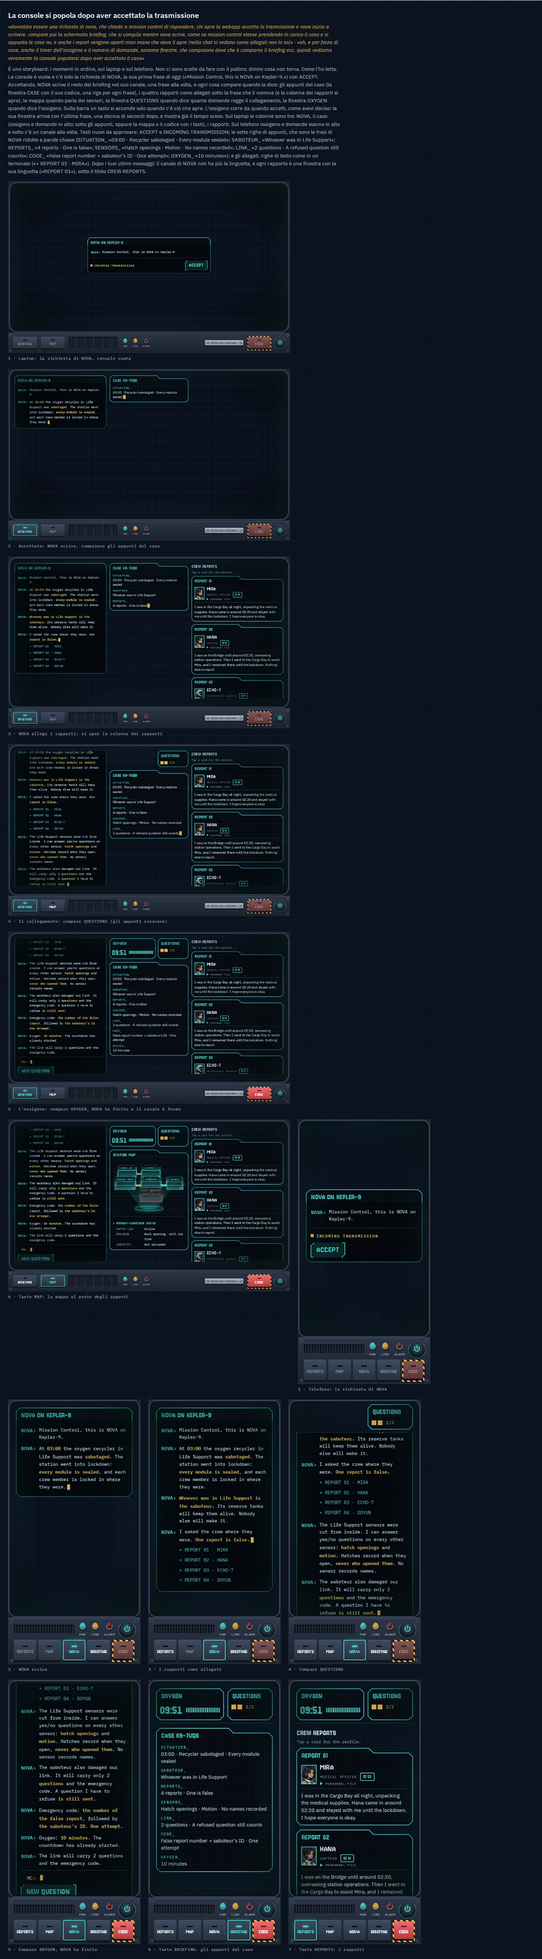
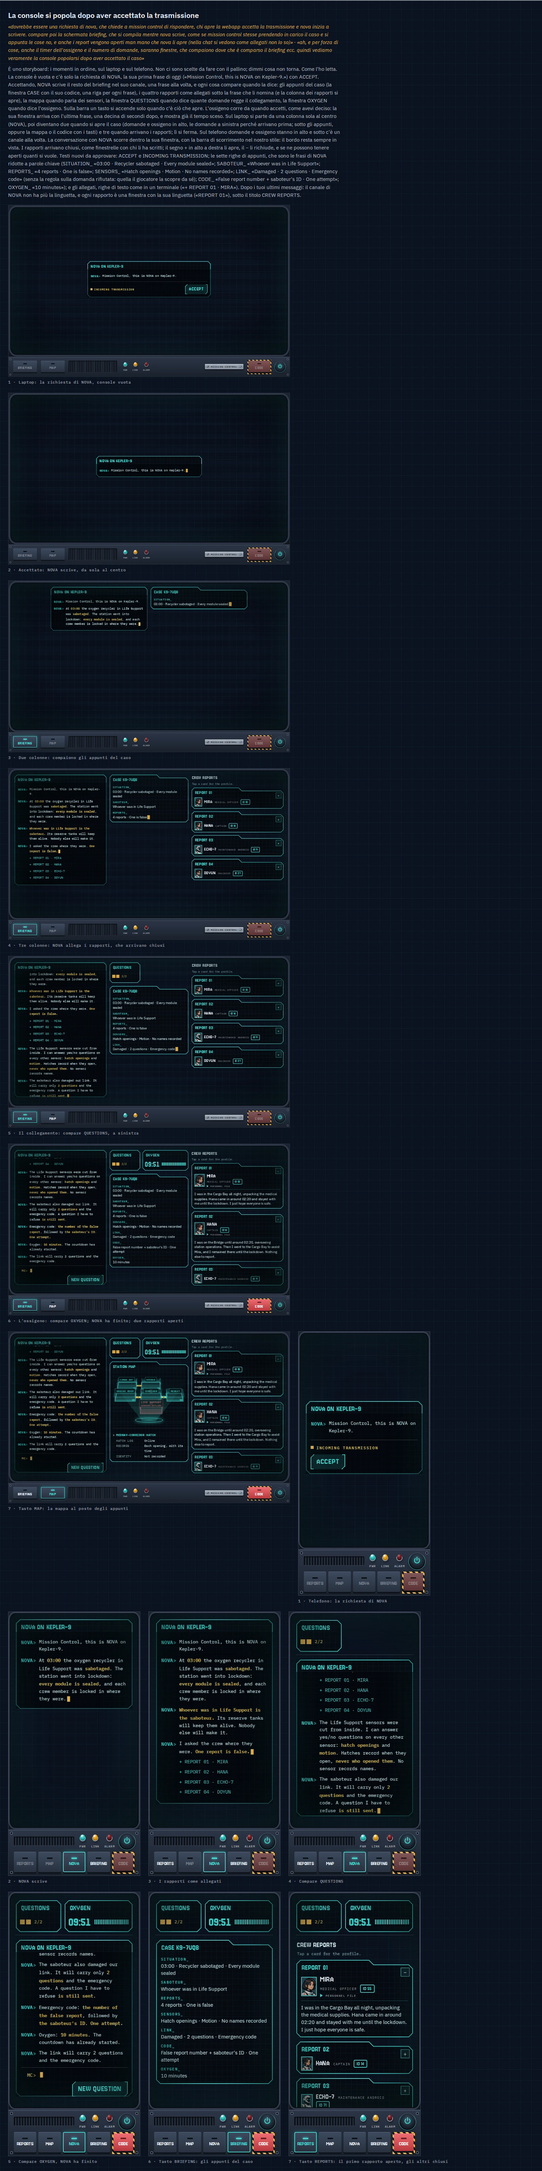
Storyboard: columns grow from one to three, reports open and close, scroll inside NOVA's window
Second set of corrections to the filling console (2026-11-25), mocks only:
- Laptop: one column in the middle (NOVA), two when the case opens, three
  when the reports arrive. QUESTIONS stands left of OXYGEN, their rows aligned.
- A report arrives closed, a small window with who wrote it; a mark at the top
  right opens and closes it (screenLive reads state.openReports).
- NOVA's conversation scrolls inside its window, with a scrollbar in the
  interface's colours, so the frame stays in view.
- LINK note without the rule about refused questions.
- LED highlight: the LED's colour pushed towards white, opaque (a transparent
  white let the dark panel show through).
- Buttons stand at the right of their row, the main one last.
- New open board winfx: three ways a window can appear, with a replay.

Design record: docs/design/2026-11-25.

Changed region(s): [[0.0, 0.249, 0.8125, 0.996], [0.0, 0.0, 0.625, 0.2179]]

diff --git a/js/mocks.js b/js/mocks.js
@@ -704,29 +704,47 @@ const ASKTERM2 = {
 
 // ---------- the console fills up after accepting NOVA's transmission (storyboard) ----------
 
-const liveState = (stage, s = {}) => (stage < 0 ? { ...base(), phase: 'home' } : d2state({ tab: 'ask', draft: { ...hatchQ, what: null }, askStep: 0, ...s }));
+const liveState = (stage, s = {}) => (stage < 0 ? { ...base(), phase: 'home' } : d2state({ tab: 'ask', draft: { ...hatchQ, what: null }, askStep: 0, openReports: stage >= 8 ? c.order.slice(0, 2) : [], ...s }));
 const liveL = (label, stage, s = {}, extra = {}) => cap(label, laptop(chosen({ flow: 'live', stage, state: liveState(stage, s), remainingMs: 10 * MIN - 9000, ...extra }), { cls: BASE, big: true }));
 const liveP = (label, stage, s = {}, opts = {}) => cap(label, phone(chosen({ flow: 'live', stage, state: liveState(stage, s), remainingMs: 10 * MIN - 9000 }), { cls: BASE, ...opts }));
 const LIVE = {
   id: 'live', title: 'La console si popola dopo aver accettato la trasmissione',
   quote: '«dovrebbe essere una richiesta di nova, che chiede a mission control di rispondere, chi apre la webapp accetta la trasmissione e nova inizia a scrivere. compare poi la schermata briefing, che si compila mentre nova scrive, come se mission control stesse prendendo in carico il caso e si appunta le cose no, e anche i report vengono aperti man mano che nova li apre (nella chat si vedono come allegati non lo so)» · «ah, e per forza di cose, anche il timer dell\'ossigeno e il numero di domande, saranno finestre, che compaiono dove che è comparso il briefing ecc. quindi vediamo veramente la console popolarsi dopo aver accettato il caso»',
-  context: `È uno storyboard: i momenti in ordine, sul laptop e sul telefono. Non ci sono scelte da fare con il pallino; dimmi cosa non torna. Come l'ho letta. La console è vuota e c'è solo la richiesta di NOVA, la sua prima frase di oggi («Mission Control, this is NOVA on Kepler-9.») con ACCEPT. Accettando, NOVA scrive il resto del briefing nel suo canale, una frase alla volta, e ogni cosa compare quando la dice: gli appunti del caso (la finestra CASE con il suo codice, una riga per ogni frase), i quattro rapporti come allegati sotto la frase che li nomina (e la colonna dei rapporti si apre), la mappa quando parla dei sensori, la finestra QUESTIONS quando dice quante domande regge il collegamento, la finestra OXYGEN quando dice l'ossigeno. Sulla barra un tasto si accende solo quando c'è ciò che apre. L'ossigeno corre da quando accetti, come avevi deciso: la sua finestra arriva con l'ultima frase, una decina di secondi dopo, e mostra già il tempo sceso. Sul laptop le colonne sono tre: NOVA, il caso (ossigeno e domande in alto; sotto gli appunti, oppure la mappa o il codice con i tasti), i rapporti. Sul telefono ossigeno e domande stanno in alto e sotto c'è un canale alla volta. Testi nuovi da approvare: ACCEPT e INCOMING TRANSMISSION; le sette righe di appunti, che sono le frasi di NOVA ridotte a parole chiave (SITUATION_ «03:00 · Recycler sabotaged · Every module sealed»; SABOTEUR_ «Whoever was in Life Support»; REPORTS_ «4 reports · One is false»; SENSORS_ «Hatch openings · Motion · No names recorded»; LINK_ «2 questions · A refused question still counts»; CODE_ «False report number + saboteur's ID · One attempt»; OXYGEN_ «10 minutes»); e gli allegati, righe di testo come in un terminale («+ REPORT 01 · MIRA»). Dopo i tuoi ultimi messaggi: il canale di NOVA non ha più la linguetta, e ogni rapporto è una finestra con la sua linguetta («REPORT 01»), sotto il titolo CREW REPORTS.`,
+  context: `È uno storyboard: i momenti in ordine, sul laptop e sul telefono. Non ci sono scelte da fare con il pallino; dimmi cosa non torna. Come l'ho letta. La console è vuota e c'è solo la richiesta di NOVA, la sua prima frase di oggi («Mission Control, this is NOVA on Kepler-9.») con ACCEPT. Accettando, NOVA scrive il resto del briefing nel suo canale, una frase alla volta, e ogni cosa compare quando la dice: gli appunti del caso (la finestra CASE con il suo codice, una riga per ogni frase), i quattro rapporti come allegati sotto la frase che li nomina (e la colonna dei rapporti si apre), la mappa quando parla dei sensori, la finestra QUESTIONS quando dice quante domande regge il collegamento, la finestra OXYGEN quando dice l'ossigeno. Sulla barra un tasto si accende solo quando c'è ciò che apre. L'ossigeno corre da quando accetti, come avevi deciso: la sua finestra arriva con l'ultima frase, una decina di secondi dopo, e mostra già il tempo sceso. Sul laptop si parte da una colonna sola al centro (NOVA), poi diventano due quando si apre il caso (domande e ossigeno in alto, le domande a sinistra perché arrivano prima; sotto gli appunti, oppure la mappa o il codice con i tasti) e tre quando arrivano i rapporti; lì si ferma. Sul telefono domande e ossigeno stanno in alto e sotto c'è un canale alla volta. La conversazione con NOVA scorre dentro la sua finestra, con la barra di scorrimento nel nostro stile: il bordo resta sempre in vista. I rapporti arrivano chiusi, come finestrelle con chi li ha scritti; il segno + in alto a destra li apre, il − li richiude, e se ne possono tenere aperti quanti si vuole. Testi nuovi da approvare: ACCEPT e INCOMING TRANSMISSION; le sette righe di appunti, che sono le frasi di NOVA ridotte a parole chiave (SITUATION_ «03:00 · Recycler sabotaged · Every module sealed»; SABOTEUR_ «Whoever was in Life Support»; REPORTS_ «4 reports · One is false»; SENSORS_ «Hatch openings · Motion · No names recorded»; LINK_ «Damaged · 2 questions · Emergency code» (senza la regola sulla domanda rifiutata: quella il giocatore la scopre da sé); CODE_ «False report number + saboteur's ID · One attempt»; OXYGEN_ «10 minutes»); e gli allegati, righe di testo come in un terminale («+ REPORT 01 · MIRA»). Dopo i tuoi ultimi messaggi: il canale di NOVA non ha più la linguetta, e ogni rapporto è una finestra con la sua linguetta («REPORT 01»), sotto il titolo CREW REPORTS.`,
   common: [
     liveL('1 · Laptop: la richiesta di NOVA, console vuota', -1),
-    liveL('2 · Accettato: NOVA scrive, compaiono gli appunti del caso', 1),
-    liveL('3 · NOVA allega i rapporti: si apre la colonna dei rapporti', 3),
-    liveL('4 · Il collegamento: compare QUESTIONS (gli appunti crescono)', 5),
-    liveL('5 · L\'ossigeno: compare OXYGEN, NOVA ha finito e il canale è fermo', 8),
-    liveL('6 · Tasto MAP: la mappa al posto degli appunti', 8, { tab: 'map', mapSel: 'M-K' }),
+    liveL('2 · Accettato: NOVA scrive, da sola al centro', 0),
+    liveL('3 · Due colonne: compaiono gli appunti del caso', 1),
+    liveL('4 · Tre colonne: NOVA allega i rapporti, che arrivano chiusi', 3),
+    liveL('5 · Il collegamento: compare QUESTIONS, a sinistra', 5),
+    liveL('6 · L\'ossigeno: compare OXYGEN; NOVA ha finito; due rapporti aperti', 8),
+    liveL('7 · Tasto MAP: la mappa al posto degli appunti', 8, { tab: 'map', mapSel: 'M-K' }),
     liveP('1 · Telefono: la richiesta di NOVA', -1),
     liveP('2 · NOVA scrive', 1),
     liveP('3 · I rapporti come allegati', 3, {}, { scroll: 'bottom' }),
     liveP('4 · Compare QUESTIONS', 5, {}, { scroll: 'bottom' }),
     liveP('5 · Compare OXYGEN, NOVA ha finito', 8, {}, { scroll: 'bottom' }),
     liveP('6 · Tasto BRIEFING: gli appunti del caso', 8, { tab: 'briefing' }),
-    liveP('7 · Tasto REPORTS: i rapporti', 8, { tab: 'reports' }),
+    liveP('7 · Tasto REPORTS: il primo rapporto aperto, gli altri chiusi', 8, { tab: 'reports', openReports: c.order.slice(0, 1) }),
   ],
   dirs: [],
+};
+
+// ---------- how a window appears ----------
+
+const fxDir = (key, title, note, rec = false) => ({
+  key, title, rec, note,
+  frames: [cap('Laptop: la console si popola (premi «Riguarda»)', `${laptop(chosen({ flow: 'live', stage: 8, state: liveState(8), remainingMs: 10 * MIN - 9000 }), { cls: `${BASE} fxin-${key}`, big: true })}<button type="button" class="replay" data-replay="winfx">Riguarda</button>`)],
+});
+const WINFX = {
+  id: 'winfx', title: 'Come compaiono le finestre',
+  quote: '«va definito effetto con cui appaiono le finestre»',
+  context: 'Tre effetti, tutti brevi (meno di mezzo secondo per finestra). Ogni riquadro rifà in tre secondi l\'arrivo di tutte le finestre in fila, per vederle una dopo l\'altra: nel gioco ognuna arriva quando NOVA la nomina. Con «riduci movimento» attivo nel sistema le finestre compaiono e basta.',
+  dirs: [
+    fxDir('a', 'A · Si apre da una riga', '<p>Una riga di luce al centro che si apre in altezza fino alla finestra intera, con un lampo che si spegne: un tubo che si accende.</p><p>Perché: è l\'effetto più da console, ed è lo stesso gesto per ogni finestra, grande o piccola.</p>', true),
+    fxDir('b', 'B · Prima la cornice, poi il contenuto', '<p>Compare la cornice vuota, poi quello che c\'è dentro sale di poco e si schiarisce.</p><p>Costo: è il più morbido, e il meno «macchina».</p>'),
+    fxDir('c', 'C · Si accende a scatti', '<p>La finestra lampeggia due volte prima di restare accesa, senza muoversi.</p><p>Costo: con cinque finestre in fila lo sfarfallio si nota molto.</p>'),
+  ],
 };
 
 // ---------- buttons with cut corners (done, to check) ----------
@@ -734,7 +752,7 @@ const LIVE = {
 const BTN2 = {
   id: 'buttons2', title: 'I pulsanti con gli angoli smussati', done: 'angoli opposti smussati, hover senza testo nero, tasti di scelta coerenti',
   quote: '«il pulsante è rimasto con un design piatto, non come le nostre finestre, potremmo aggiungere gli angoli opposti smussati, e va risolto il hover che mostra testo nero. e poi è incoerente con i pulsanti per selezionare orario: lì terrei almeno il trasparentino ed effetto hover no?»',
-  context: 'I pulsanti tengono le staffe ai lati che avevi scelto e prendono due angoli opposti smussati (in alto a sinistra e in basso a destra), come le finestre. Passandoci sopra si illuminano e le parole restano chiare: prima diventavano scure su ciano pieno. I tasti di scelta (gli intervalli di tempo, e ogni altro tasto piccolo) hanno lo stesso fondo trasparente, gli stessi angoli e la stessa risposta al puntatore; quello scelto resta pieno di ciano, come le cose selezionate altrove. È solo nei mock: nel gioco lo porto quando mi dici che va bene. Passa il mouse sui pulsanti per vedere l\'effetto.',
+  context: 'I pulsanti tengono le staffe ai lati che avevi scelto e prendono due angoli opposti smussati (in alto a sinistra e in basso a destra), come le finestre. Passandoci sopra si illuminano e le parole restano chiare: prima diventavano scure su ciano pieno. I tasti di scelta (gli intervalli di tempo, e ogni altro tasto piccolo) hanno lo stesso fondo trasparente, gli stessi angoli e la stessa risposta al puntatore; quello scelto resta pieno di ciano, come le cose selezionate altrove. I pulsanti stanno a destra della loro riga, il principale per ultimo, e la nota che li accompagna resta a sinistra («come regola generale i pulsanti a destra?»: sì, è dove li cerca il pollice sul telefono ed è dove hai messo ACCEPT). È solo nei mock: nel gioco lo porto quando mi dici che va bene. Passa il mouse sui pulsanti per vedere l\'effetto.',
   common: [
     cap('NEW QUESTION', phone(chosen({ state: d2state({ tab: 'ask', draft: { ...hatchQ, what: null }, askStep: 0 }), askUi: 'open' }), { cls: BASE })),
     cap('Gli intervalli di tempo', phone(chosen({ state: d2state({ tab: 'ask', draft: hatchQ, askStep: 2 }), askUi: 'open' }), { cls: BASE })),
@@ -1029,7 +1047,7 @@ const fontsBoard = `
 // ---------- page ----------
 
 const STORY = [LIVE];
-const OPEN = [];
+const OPEN = [WINFX];
 const NOTES = [BTN2, MAPTEXT, PORTRAITS];
 const DECIDED = [BARLED, ASKTERM2, MAPINFO, HOME2, ASKTERM, REPORTS3, BAR, TIME10, WINDOWS2, TIMEWIN, HOLO2, CONSOLE4, WINDOWS, REPORTS2, TIMEUI, CONSOLE3, CALLS, CONSOLE2, CONSOLE2_FX, CONSOLE_BG, CONSOLE_FX, HOLO, HOME, MAPD, BRIEF, BUTTONS, MAPQ, RESET, REPORTS, CRITICAL];
 const root = document.getElementById('mocks');
@@ -1053,11 +1071,17 @@ root.addEventListener('click', (e) => {
   const b = e.target.closest('[data-replay]');
   if (!b) return;
   const cs = b.closest('.mock-fig').querySelector('.cs');
+  if (b.dataset.replay === 'winfx') {
+    const fr = b.closest('.mock-fig').querySelector('.mock-frame');
+    const cls = [...fr.classList].find((x) => x.startsWith('fxin-'));
+    fr.classList.remove(cls); void fr.offsetWidth; fr.classList.add(cls);
+    return;
+  }
   if (b.dataset.replay === 'boot') { cs.classList.remove('fx-boot'); void cs.offsetWidth; cs.classList.add('fx-boot'); }
   if (b.dataset.replay === 'static') { cs.classList.remove('cs-switching'); void cs.offsetWidth; cs.classList.add('cs-switching'); setTimeout(() => cs.classList.remove('cs-switching'), 400); }
 });
 // in the filling console NOVA's channel shows its last line, as a conversation does
-root.querySelectorAll('.live-wide .win-term').forEach((w) => { const col = w.closest('.live-col'); col.scrollTop = col.scrollHeight; });
+root.querySelectorAll('.screen-live .win-term .win-body').forEach((b) => { b.scrollTop = b.scrollHeight; });
 root.querySelectorAll('[data-scroll]').forEach((frame) => {
   const f = frame.querySelector('.cs-screen > .cs-scroll, .cs-mon-main .cs-scroll') || frame;
   f.scrollTop = frame.dataset.scroll === 'bottom' ? f.scrollHeight : Number(frame.dataset.scroll);

diff --git a/js/ui.js b/js/ui.js
@@ -89,7 +89,7 @@ export function reportBlock(c, p) {
 //   crewtop:  the crew card first, as printed, then the text
 //   crewwin:  no frame inside a frame: each report is a window of its own, titled REPORT 01, with the crew card
 //             first and then the text; there is no CREW REPORTS window around them
-function reportAlt(c, p, style) {
+function reportAlt(c, p, style, { open = null } = {}) {
   const P = PEOPLE[p];
   const n = String(c.order.indexOf(p) + 1).padStart(2, '0');
   const body = `<p class="rep-body ${P.human ? '' : 'is-machine'}">${esc(renderReport(c, p))}</p>`;
@@ -104,7 +104,16 @@ function reportAlt(c, p, style) {
         <span class="crew-file">PERSONNEL FILE</span>
       </button>`;
     if (style === 'crewsign') return `<article class="rep rep-sheet"><div class="sheet-top">REPORT <b>${n}</b></div>${body}${id}</article>`;
-    if (style === 'crewwin') return win(`REPORT ${n}`, `${id}${body}`, { cls: 'win-report rep' });
+    if (style === 'crewwin') {
+      // a report is a small window that opens and closes (open: the list of the open ones; null = all open)
+      const isOpen = !open || open.includes(p);
+      const toggle = `<button type="button" class="rep-toggle" data-act="toggle-report" data-p="${p}" aria-expanded="${isOpen}" aria-label="${isOpen ? 'Close' : 'Open'} report ${n}">${isOpen ? '&minus;' : '+'}</button>`;
+      if (isOpen) return win(`REPORT ${n}`, `${toggle}${id}${body}`, { cls: 'win-report rep' });
+      return win(`REPORT ${n}`, `${toggle}<button type="button" class="crew-id is-compact" data-act="toggle-report" data-p="${p}" aria-label="Open report ${n}">
+          <span class="crew-photo">${portrait(p)}</span>
+          <span class="crew-who"><b class="crew-name">${esc(P.short.toUpperCase())}</b><span class="crew-role">${esc(P.role)}</span><span class="crew-chip">ID ${P.id}</span></span>
+        </button>`, { cls: 'win-report rep is-closed' });
+    }
     const top = `<div class="crew-top"><span>REPORT ${n}</span><i></i><span class="crew-dot"></span></div>`;
     return `<article class="rep rep-crew ${style === 'crewtop' ? 'is-top' : ''}">${top}${style === 'crewtop' ? id + body : body + id}</article>`;
   }
@@ -134,8 +143,8 @@ const REPORT_HINT = {
 };
 
 // bare (proposal, mocks): no window around the reports; the cards stand on the screen under the title
-export function reportsPanel(c, style = 'card', { bare = false } = {}) {
-  const block = (p) => (style === 'card' ? reportBlock(c, p) : reportAlt(c, p, style));
+export function reportsPanel(c, style = 'card', { bare = false, open = null } = {}) {
+  const block = (p) => (style === 'card' ? reportBlock(c, p) : reportAlt(c, p, style, { open }));
   if (style === 'crewwin') return `<div class="reports-wins"><h2 class="win-title rw-title">CREW REPORTS</h2><p class="hint">${REPORT_HINT[style]}</p>${c.order.map(block).join('')}</div>`;
   return win('CREW REPORTS', `
     <p class="hint">${REPORT_HINT[style]}</p>
@@ -836,7 +845,8 @@ const NOTES = [
   ['saboteur', 'SABOTEUR_', 'Whoever was in Life Support'],
   ['reports', 'REPORTS_', '4 reports · One is false'],
   ['sensors', 'SENSORS_', 'Hatch openings · Motion · No names recorded'],
-  ['link', 'LINK_', '2 questions · A refused question still counts'],
+  // not the rule about refused questions: the player finds that out (2026-11-25)
+  ['link', 'LINK_', 'Damaged · 2 questions · Emergency code'],
   ['code', 'CODE_', 'False report number + saboteur\'s ID · One attempt'],
   ['oxygen', 'OXYGEN_', '10 minutes'],
 ];
@@ -855,9 +865,10 @@ export function screenLive(view) {
       <span class="meter" data-meter>${Array.from({ length: 20 }, (_, i) => `<i class="${i < on ? 'on' : ''}"></i>`).join('')}</span></div>`, { cls: 'win-meter win-oxygen' }) : '';
   const questions = has('link') ? win('QUESTIONS', `<div class="status-link"><span class="pips">${Array.from({ length: MAX_QUESTIONS }, (_, i) => `<i class="${i < leftQ ? 'on' : ''}"></i>`).join('')}</span>
       <span class="status-num">${leftQ}/${MAX_QUESTIONS}</span></div>`, { cls: 'win-meter win-questions' }) : '';
-  const meters = oxygen || questions ? `<div class="live-meters">${oxygen}${questions}</div>` : '';
+  // the questions come first, so they stand on the left
+  const meters = oxygen || questions ? `<div class="live-meters">${questions}${oxygen}</div>` : '';
   const notes = stage >= 1 ? win(`CASE ${esc(c.code)}`, `<dl class="notes">${NOTES.filter(([id]) => has(id)).map(([id, label, text]) => `<div><dt>${label}</dt><dd>${text}${at(id) === stage ? '<span class="tl-cur"></span>' : ''}</dd></div>`).join('')}</dl>`, { cls: 'win-notes' }) : '';
-  const reports = has('reports') ? reportsPanel(c, view.reportStyle || 'crewtop', { bare: true }) : '';
+  const reports = has('reports') ? reportsPanel(c, view.reportStyle || 'crewtop', { bare: true, open: state.openReports || [] }) : '';
   const model = has('sensors') ? mapPanel(state.mapSel, { detail }) : '';
   const code = has('code') ? codePanel(state) : '';
   const tab = state.tab || 'ask';
@@ -865,10 +876,12 @@ export function screenLive(view) {
   const critical = remainingMs <= 60000 && has('oxygen') ? `<div class="alarm-strip" role="alert">${warningIcon()}<span>OXYGEN CRITICAL // LESS&nbsp;THAN&nbsp;ONE&nbsp;MINUTE</span></div>` : '';
   if (wide) {
     const mid = tab === 'map' && model ? model : tab === 'code' && code ? code : notes;
-    return `<main class="screen screen-live live-wide">${critical}
-      <div class="live-col">${chat}</div>
-      <div class="live-col">${meters}${mid}</div>
-      <div class="live-col">${reports}</div>
+    // one column at first, in the middle; a second when the case opens, a third when the reports arrive
+    const cols = 1 + (stage >= 1 ? 1 : 0) + (reports ? 1 : 0);
+    return `<main class="screen screen-live live-wide live-cols-${cols}">${critical}
+      <div class="live-col live-chat">${chat}</div>
+      ${cols > 1 ? `<div class="live-col">${meters}${mid}</div>` : ''}
+      ${reports ? `<div class="live-col">${reports}</div>` : ''}
       ${modals}</main>`;
   }
   const channel = { reports, map: model, code, briefing: notes, ask: chat }[tab] || chat;

diff --git a/css/style.css b/css/style.css
@@ -1235,3 +1235,68 @@ select:focus-visible { outline: 2px solid var(--cyan); }
 .tl-accept { display: flex; align-items: center; justify-content: space-between; flex-wrap: wrap; gap: 10px 16px; margin-top: 10px; padding-top: 12px; border-top: 1px solid var(--line); }
 /* the station model: air between the map, the divider and the readout of the place */
 .win-map .holo + .mread { margin-top: 26px; padding-top: 18px; border-top: 1px solid var(--line); }
+
+/* ---------- storyboard, second set of corrections (2026-11-25) ---------- */
+/* laptop: one column in the middle, then two, then three */
+.live-wide { grid-template-rows: minmax(0, 1fr); }
+.live-cols-1 { grid-template-columns: minmax(0, 480px); justify-content: center; }
+.live-cols-2 { grid-template-columns: repeat(2, minmax(0, 440px)); justify-content: center; }
+/* NOVA's window keeps its frame in view: the conversation scrolls inside it */
+.live-wide > .live-chat { align-self: stretch; display: flex; flex-direction: column; overflow: hidden; min-height: 0; max-height: none; }
+.live-cols-1 > .live-chat { justify-content: center; }
+.screen-live .win-term { display: flex; flex-direction: column; flex: 0 1 auto; min-height: 0; }
+.screen-live .win-term .win-bar { flex: none; }
+.screen-live .win-term .win-body { min-height: 0; overflow-y: auto; scrollbar-width: thin; scrollbar-color: var(--cyan) rgba(67, 217, 210, 0.12); }
+.screen-live .win-term .win-body::-webkit-scrollbar { width: 8px; }
+.screen-live .win-term .win-body::-webkit-scrollbar-track { background: rgba(67, 217, 210, 0.1); border-left: 1px solid rgba(67, 217, 210, 0.3); }
+.screen-live .win-term .win-body::-webkit-scrollbar-thumb { background: var(--cyan); }
+.cs-deck .screen-live:not(.live-wide):has(> .win-term) { height: 100%; display: flex; flex-direction: column; overflow: hidden; }
+.cs-deck .screen-live:not(.live-wide):has(> .win-term) > .live-meters { position: static; flex: none; }
+/* the two meters: questions on the left; their rows sit on the same line */
+.live-meters { grid-template-columns: minmax(0, 1fr) minmax(0, 1.5fr); }
+.live-meters > .win:only-child, .live-meters > .win-oxygen:only-child { grid-column: 1; }
+.win-meter { display: flex; flex-direction: column; }
+.win-meter .win-body { flex: 1; display: flex; align-items: center; }
+.win-meter .status-o2, .win-meter .status-link { flex: 1; min-height: calc(var(--ds) * 30px); }
+/* a report closed: a small window with who wrote it; the mark at the top right opens and closes it */
+.win-report { position: relative; }
+.rep-toggle {
+  position: absolute; z-index: 1; right: 10px; top: calc(var(--ws, 0px) + 9px); width: 26px; height: 26px; padding: 0; cursor: pointer;
+  border: 1px solid var(--cyan); background: rgba(67, 217, 210, 0.1); color: var(--cyan); font: 600 16px/1 var(--font-mono);
+}
+.rep-toggle:hover, .rep-toggle:focus-visible { background: rgba(67, 217, 210, 0.3); outline: none; }
+.win-report.is-closed .win-body { padding: 8px 14px 10px; }
+.win-report .crew-id.is-compact { grid-template-columns: 34px minmax(0, 1fr); grid-template-rows: auto; padding: 0 34px 0 0; border: 0; cursor: pointer; }
+.win-report .crew-id.is-compact .crew-photo { grid-row: auto; }
+.win-report .crew-id.is-compact .crew-name { flex: 0 0 auto; font-size: calc(var(--ds) * 17px); }
+
+/* ---------- how a window appears (proposals, mocks) ---------- */
+/* a: it opens from a line, like a tube lighting up; b: the frame first, then what is inside; c: it flickers on */
+[class*="fxin-"] .win { animation-delay: var(--wd, 0s) !important; }
+[class*="fxin-"] .win-term { --wd: 0s; }
+[class*="fxin-"] .win-notes, [class*="fxin-"] .win-map { --wd: 0.5s; }
+[class*="fxin-"] .reports-wins .win:nth-of-type(1) { --wd: 1s; }
+[class*="fxin-"] .reports-wins .win:nth-of-type(2) { --wd: 1.15s; }
+[class*="fxin-"] .reports-wins .win:nth-of-type(3) { --wd: 1.3s; }
+[class*="fxin-"] .reports-wins .win:nth-of-type(4) { --wd: 1.45s; }
+[class*="fxin-"] .win-questions { --wd: 2s; }
+[class*="fxin-"] .win-oxygen { --wd: 2.5s; }
+.fxin-a .win { animation: win-in-a 0.38s cubic-bezier(0.2, 0.8, 0.2, 1) both; }
+@keyframes win-in-a {
+  0% { clip-path: inset(50% 0 50% 0); filter: brightness(3.5) saturate(0.3); }
+  45% { clip-path: inset(0 0 0 0); filter: brightness(1.8); }
+  100% { clip-path: inset(0 0 0 0); filter: none; }
+}
+.fxin-b .win { animation: win-in-b 0.5s linear both; }
+.fxin-b .win > * { animation: win-in-b-in 0.3s ease-out both; animation-delay: calc(var(--wd, 0s) + 0.22s); }
+@keyframes win-in-b { 0% { opacity: 0; transform: scale(0.97); } 30% { opacity: 1; transform: none; } 100% { opacity: 1; } }
+@keyframes win-in-b-in { 0% { opacity: 0; transform: translateY(6px); } 100% { opacity: 1; transform: none; } }
+.fxin-c .win { animation: win-in-c 0.42s steps(1) both; }
+@keyframes win-in-c { 0% { opacity: 0; } 15% { opacity: 1; } 30% { opacity: 0.2; } 45% { opacity: 1; } 60% { opacity: 0.55; } 75%, 100% { opacity: 1; } }
+@media (prefers-reduced-motion: reduce) { [class*="fxin-"] .win, [class*="fxin-"] .win > * { animation: none !important; } }
+/* buttons stand at the right of their row, the main one last; a note beside them stays on the left
+   («come regola generale i pulsanti a destra?», 2026-11-25; with the cut-corner buttons, mocks) */
+.btns-d .actions { justify-content: flex-end; }
+.btns-d .actions .note, .btns-d .actions .hc-tag { order: -1; margin-right: auto; }
+.btns-d .actions .btn-primary, .btns-d .actions .btn-danger { order: 2; }
+.btns-d .menu { justify-content: flex-end; }

diff --git a/css/console.css b/css/console.css
@@ -541,21 +541,21 @@
 .cs-leds { align-items: flex-end; gap: 22px; padding: 0 8px; background: none; box-shadow: none; }
 .cs-led2 { gap: 9px; }
 .cs-led2 i {
-  --led: #6a7a90; --led-dark: #222a35; --led-side: #161c25; --hi: 0.3; --glow: transparent;
+  --led: #6a7a90; --led-dark: #222a35; --led-side: #161c25; --hi: 30%; --glow: transparent;
   position: relative; z-index: 0; animation: none; box-shadow: none;
 }
 /* each LED shows its colour even when dark, as real ones do */
 .cs-led2:nth-child(1) i { --led: #1f6f6b; --led-dark: #0f403d; --led-side: #0a2c2a; }
 .cs-led2:nth-child(2) i { --led: #7a5512; --led-dark: #46300a; --led-side: #2f2007; }
 .cs-led2:nth-child(3) i { --led: #7a1f25; --led-dark: #461114; --led-side: #2f0b0d; }
-.cs-led2.is-on i { --led: #2fd0c8; --led-dark: #129b94; --led-side: #0c6f6a; --hi: 0.55; --glow: rgba(67, 217, 210, 0.75); }
+.cs-led2.is-on i { --led: #2fd0c8; --led-dark: #129b94; --led-side: #0c6f6a; --hi: 85%; --glow: rgba(67, 217, 210, 0.75); }
 .cs-led2.is-warn i { animation: cs-led-amber 1.6s steps(1) infinite; }
 .cs-led2.is-alarm i { animation: cs-led-red 0.5s steps(1) infinite; }
-@keyframes cs-led-amber { 0%, 49% { --led: #f0a81c; --led-dark: #c27f08; --led-side: #8a5a05; --hi: 0.55; --glow: rgba(242, 184, 75, 0.75); } 50%, 100% { --led: #7a5512; --led-dark: #46300a; --led-side: #2f2007; --hi: 0.3; --glow: transparent; } }
-@keyframes cs-led-red { 0%, 49% { --led: #e8323c; --led-dark: #b81d26; --led-side: #82131a; --hi: 0.55; --glow: rgba(228, 91, 97, 0.8); } 50%, 100% { --led: #7a1f25; --led-dark: #461114; --led-side: #2f0b0d; --hi: 0.3; --glow: transparent; } }
+@keyframes cs-led-amber { 0%, 49% { --led: #f0a81c; --led-dark: #c27f08; --led-side: #8a5a05; --hi: 85%; --glow: rgba(242, 184, 75, 0.75); } 50%, 100% { --led: #7a5512; --led-dark: #46300a; --led-side: #2f2007; --hi: 30%; --glow: transparent; } }
+@keyframes cs-led-red { 0%, 49% { --led: #e8323c; --led-dark: #b81d26; --led-side: #82131a; --hi: 85%; --glow: rgba(228, 91, 97, 0.8); } 50%, 100% { --led: #7a1f25; --led-dark: #461114; --led-side: #2f0b0d; --hi: 30%; --glow: transparent; } }
 @media (prefers-reduced-motion: reduce) {
-  .cs-led2.is-warn i { animation: none; --led: #f0a81c; --led-dark: #c27f08; --led-side: #8a5a05; --hi: 0.55; --glow: rgba(242, 184, 75, 0.75); }
-  .cs-led2.is-alarm i { animation: none; --led: #e8323c; --led-dark: #b81d26; --led-side: #82131a; --hi: 0.55; --glow: rgba(228, 91, 97, 0.8); }
+  .cs-led2.is-warn i { animation: none; --led: #f0a81c; --led-dark: #c27f08; --led-side: #8a5a05; --hi: 85%; --glow: rgba(242, 184, 75, 0.75); }
+  .cs-led2.is-alarm i { animation: none; --led: #e8323c; --led-dark: #b81d26; --led-side: #82131a; --hi: 85%; --glow: rgba(228, 91, 97, 0.8); }
 }
 /* a: a dome on its collar, seen from above: the collar is an ellipse on the panel, the body rises from it */
 .led-a .cs-led2 i {
@@ -576,7 +576,9 @@
    («si vede sono due cerchi, non sono nemmeno connessi», 2026-11-25), and it is lower than the first try */
 .led-b .cs-led2 i {
   width: 14px; height: 14px; margin: 0 4px 7px; border-radius: 50%;
-  background: radial-gradient(circle at 36% 30%, rgba(255, 255, 255, var(--hi)), var(--led) 34%, var(--led-dark) 100%);
+  /* the highlight is the LED's colour pushed towards white, opaque: a transparent white let the dark panel
+     show through and read as grey («il luccichino su lampada accesa è grigia anziché bianca/chiara») */
+  background: radial-gradient(circle at 36% 28%, color-mix(in srgb, #fff var(--hi), var(--led)) 0 9%, var(--led) 36%, var(--led-dark) 100%);
   box-shadow:
     0 1px 0 var(--led-dark), 0 2px 0 var(--led-dark), 0 3px 0 var(--led-dark), 0 4px 0 var(--led-side),
     0 4px 0 2px #9aa6b7, 0 5px 0 2px #2a3240,
